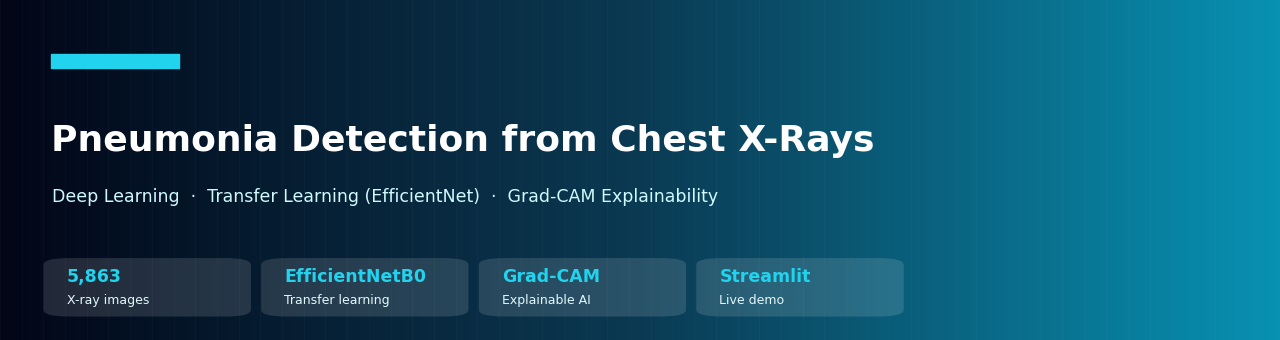
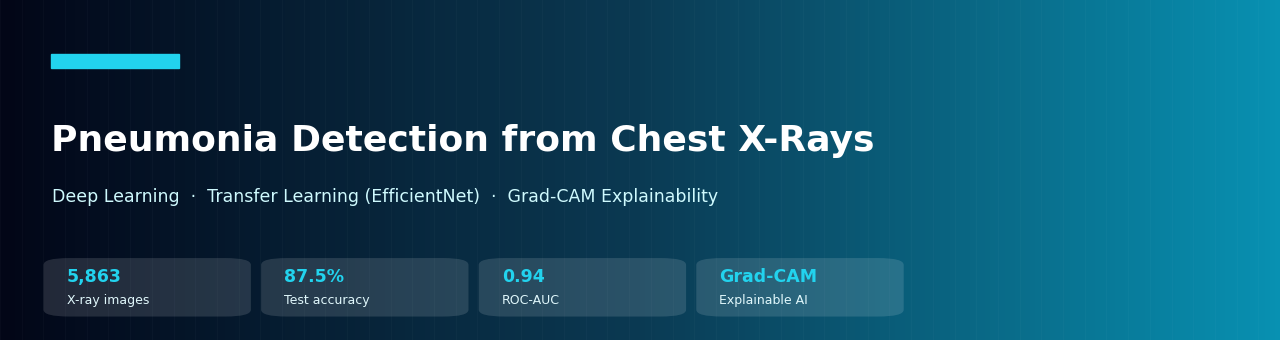
Add trained model, results & figures (test acc 87.5%, ROC-AUC 0.943, 94% pneumonia recall)

Changed region(s): [[0.2188, 0.7941, 0.3438, 0.9118], [0.375, 0.7941, 0.4688, 0.9118], [0.5625, 0.7941, 0.6562, 0.9118]]

diff --git a/README.md b/README.md
@@ -106,15 +106,17 @@ model focuses on **lung fields** (consolidation/opacities) rather than artifacts
 
 ## 📈 Results
 
-> Generated by the training notebook (`outputs/metrics.txt` + `assets/figures`). Fill the table from your run:
+Evaluated on the held-out **test set (624 X-rays)** — EfficientNetB0 with fine-tuning:
 
 | Metric | Score |
 |---|:---:|
-| Test Accuracy | `__._%` |
-| ROC-AUC | `0.__` |
-| Recall (PNEUMONIA / sensitivity) | `0.__` |
-| Precision (PNEUMONIA) | `0.__` |
-| F1 (PNEUMONIA) | `0.__` |
+| Test Accuracy | **87.5%** |
+| ROC-AUC | **0.943** |
+| Recall — PNEUMONIA (sensitivity) | **0.941** |
+| Precision — PNEUMONIA | **0.870** |
+| F1 — PNEUMONIA | **0.904** |
+
+> The model catches **94% of pneumonia cases** (high sensitivity — the metric that matters most for screening), at a test **ROC-AUC of 0.94**.
 
 <table>
 <tr>
@@ -139,7 +141,7 @@ The Streamlit app lets you upload any chest X-ray and get a prediction plus a Gr
 streamlit run app/app.py
 ```
 
-<p align="center"><img src="assets/demo.png" alt="Streamlit demo" width="80%"/></p>
+> 💡 Upload any chest X-ray → get a NORMAL/PNEUMONIA prediction with confidence **and** a Grad-CAM heatmap (like the examples above).
 
 ---
 
@@ -210,15 +212,4 @@ See **[`STEPS.md`](STEPS.md)** for the exact, copy-paste runbook.
 
 ## 📄 License
 
-Released under the **MIT License** — see [`LICENSE`](LICENSE).
-
-<div align="center">
-
----
-
-*Built with TensorFlow/Keras, Grad-CAM & Streamlit · © 2026 Ankit Saxena*
-*Educational project — not for clinical use.*
-
-[⬆ Back to top](#toc)
-
-</div>
+Released under the **MIT License** — see [`LICENSE